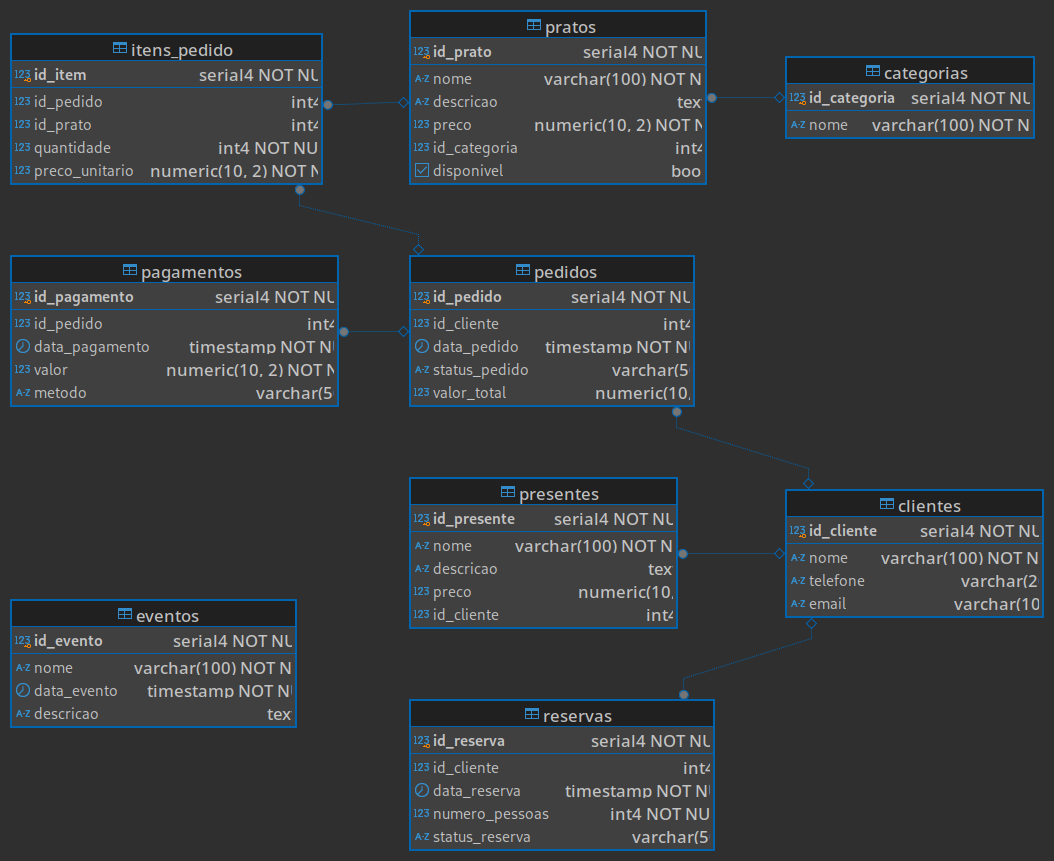
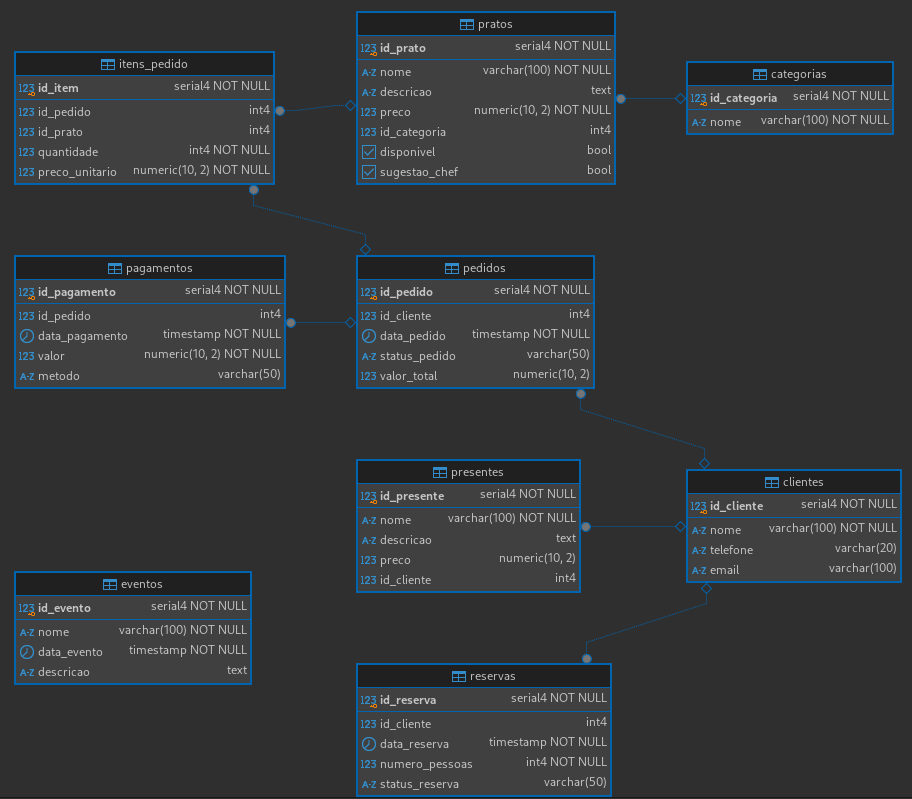
edição de imagens DER  para conter novo campo em PRATOS -> sugestao_chefe

diff --git a/db/DATABASE.md b/db/DATABASE.md
@@ -86,7 +86,7 @@ No DER, podemos visualizar essas entidades conectadas com linhas que representam
 
 Isso deve cobrir o funcionamento básico de um restaurante, incluindo reservas, pedidos, categorias de pratos e pagamentos.
 
-![Diagrama do Sistema](/db/exports/tutti_nostri.png)
+![Diagrama do Sistema](/db/exports/tutti_nostri_full.png)
 
 
 ## Relacionamentos Chave Estrangeira
